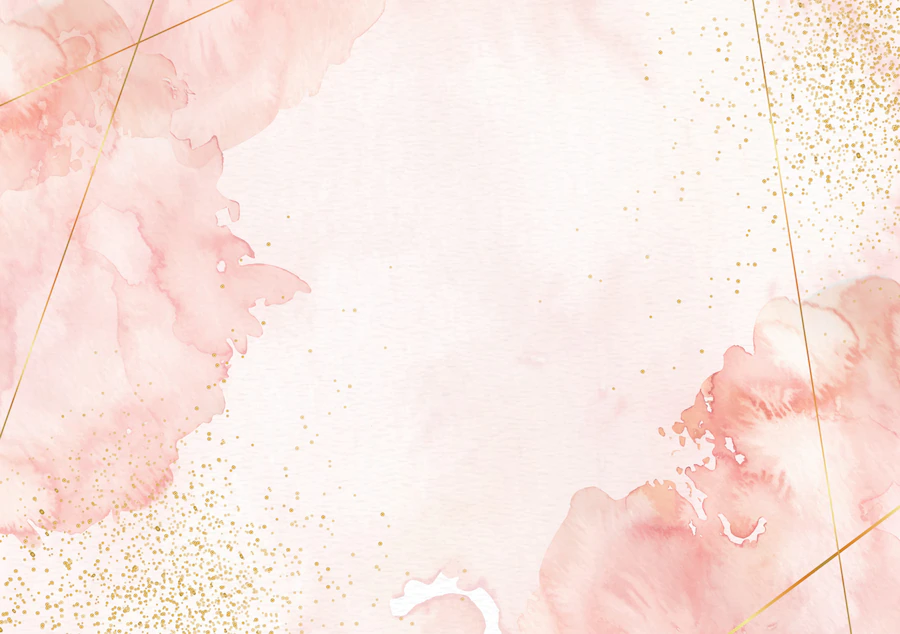
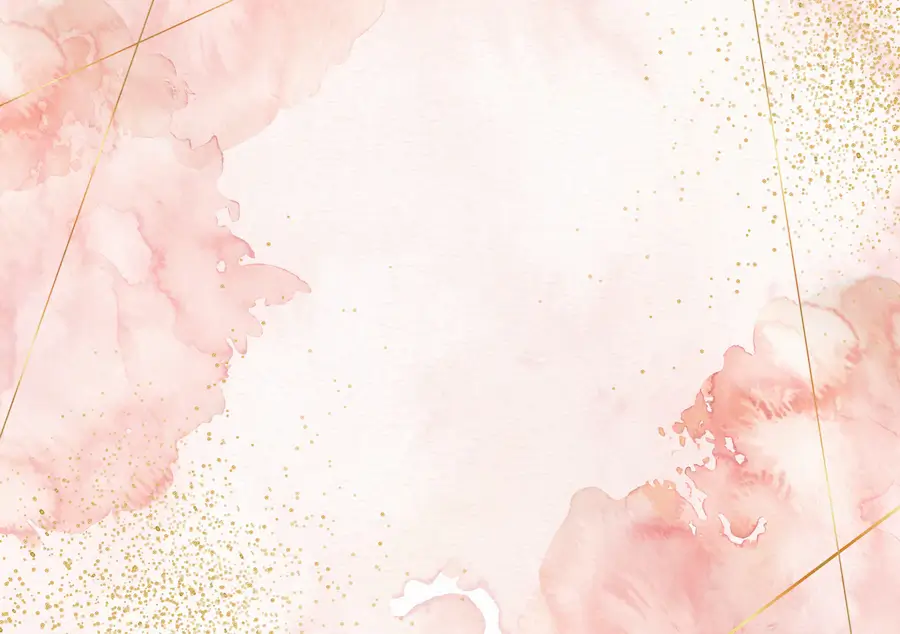
[add] new bag and frame

diff --git a/main.scss b/main.scss
@@ -1,11 +1,15 @@
 // colors
 $color_primary: #fae3dd;
 $color_secondary: #f9eae7;
-$color_font: #8faaa9;
+$color_font: #48807f;
 
 // fonts
 $font_title: "Caveat", cursive;
 $font_text: "Saira Condensed", sans-serif;
+
+// shadows
+$text_shadow: 2px 0 #ffffff, -2px 0 #ffffff, 0 2px #ffffff, 0 -2px #ffffff,
+  1px 1px #ffffff, -1px -1px #ffffff, 1px -1px #ffffff, -1px 1px #ffffff;
 
 :root {
   font-family: Inter, Avenir, Helvetica, Arial, sans-serif;
@@ -46,11 +50,12 @@ a {
   text-decoration: none;
   color: inherit;
   font-weight: bold;
+  text-shadow: $text_shadow;
 }
 
 .btn {
   font-size: 1.6rem;
-  border: 1px solid $color_font;
+  border: 2px solid $color_font;
   padding: 5px 15px;
   border-radius: 8px;
   margin-top: 15px;
@@ -83,8 +88,7 @@ a {
   display: flex;
   justify-content: center;
   align-items: center;
-  padding: 20px;
-  background-image: url("./assets/bg2.png");
+  background-image: url("./assets/bg.webp");
   background-repeat: no-repeat;
   background-position: center;
   background-size: cover;
@@ -92,10 +96,10 @@ a {
   &__text {
     width: 100%;
     height: 100%;
-    background-color: $color_primary;
-    border: 15px solid $color_secondary;
-    border-top-left-radius: 50%;
-    border-top-right-radius: 50%;
+    background-image: url("./assets/frame2.webp");
+    background-position: center;
+    background-repeat: no-repeat;
+    background-size: contain;
     display: flex;
     flex-direction: column;
     align-items: center;
@@ -113,17 +117,21 @@ a {
       font-size: 2rem;
       font-weight: 100;
       text-align: center;
+      text-shadow: $text_shadow;
     }
 
     .title {
       font-family: $font_title;
       font-size: 4rem;
+      text-shadow: $text_shadow;
     }
 
     .text {
       font-size: 1.5rem;
       font-weight: 300;
       text-align: center;
+      text-shadow: $text_shadow;
+      max-width: 70%;
     }
 
     .mb {
@@ -134,21 +142,24 @@ a {
       font-size: 2rem;
       font-weight: 500;
       margin-top: 20px;
+      text-shadow: $text_shadow;
     }
 
     .address {
-        display: flex;
-        justify-content: center;
-        align-items: center;
-        gap: 5px;
+      display: flex;
+      justify-content: center;
+      align-items: center;
+      gap: 5px;
+      text-shadow: $text_shadow;
 
-        img {
-            height: 20px;
-        }
+      img {
+        height: 20px;
+      }
 
-        span {
-            font-size: 1.6rem;
-        }
+      span {
+        font-size: 1.6rem;
+        text-shadow: $text_shadow;
+      }
     }
   }
 }
@@ -168,6 +179,7 @@ counter-clock {
 
     .value {
       font-size: 2rem;
+      text-shadow: $text_shadow;
     }
   }
 }
@@ -179,15 +191,13 @@ counter-clock {
   }
 
   .info_wrapper {
-    padding: 60px;
 
     &__text {
       width: 100%;
-      max-width: 550px;
 
       .cross {
-        height: 120px;
-        margin-bottom: 35px;
+        height: 80px;
+        margin-bottom: 25px;
       }
 
       .header {
@@ -207,7 +217,7 @@ counter-clock {
       }
 
       .mb {
-        margin-bottom: 30px;
+        margin-bottom: 20px;
       }
 
       .date {

diff --git a/index.html b/index.html
@@ -12,7 +12,7 @@
   <body>
     <div id="main" class="main_wrapper">
       <div class="image_wrapper">
-        <img src="./assets/montse.jpg" alt="Montserrat" class="animate__animated animate__fadeInLeft">
+        <img src="./assets/montse2.jpg" alt="Montserrat" class="animate__animated animate__fadeInLeft">
       </div>
       <div class="info_wrapper">
         <div class="info_wrapper__text animate__animated animate__fadeInRight">
@@ -20,7 +20,11 @@
           <p class="header">ACOMPÁÑANOS EN EL BAUTIZO DE</p>
           <h1 class="title">Montserrat Marie</h1>
           <p class="text">PARROQUIA SAN LÁZARO</p>
-          <p class="text mb">EJERCITO LIBERTADOR 520-10:00AM</p>
+          <p class="text mb">EJÉRCITO LIBERTADOR 520-10:00AM</p>
+          <p class="text">PADRINOS:</p>
+          <p class="text">Milagros Medina</p>
+          <p class="text">Andres Ollarves </p>
+          <p class="text mb">Xioliliana Diaz</p>
           <p class="text">TAMBIÉN PUEDES CONECTARTE AL LIVE QUE SE TRANSMITIRÁ A TRAVÉS DEL INSTAGRAM </p>
           <a href="https://www.instagram.com/ayskel23/" target="_blank" rel="noopener noreferrer" class="btn">@AYSKEL23</a>
 
